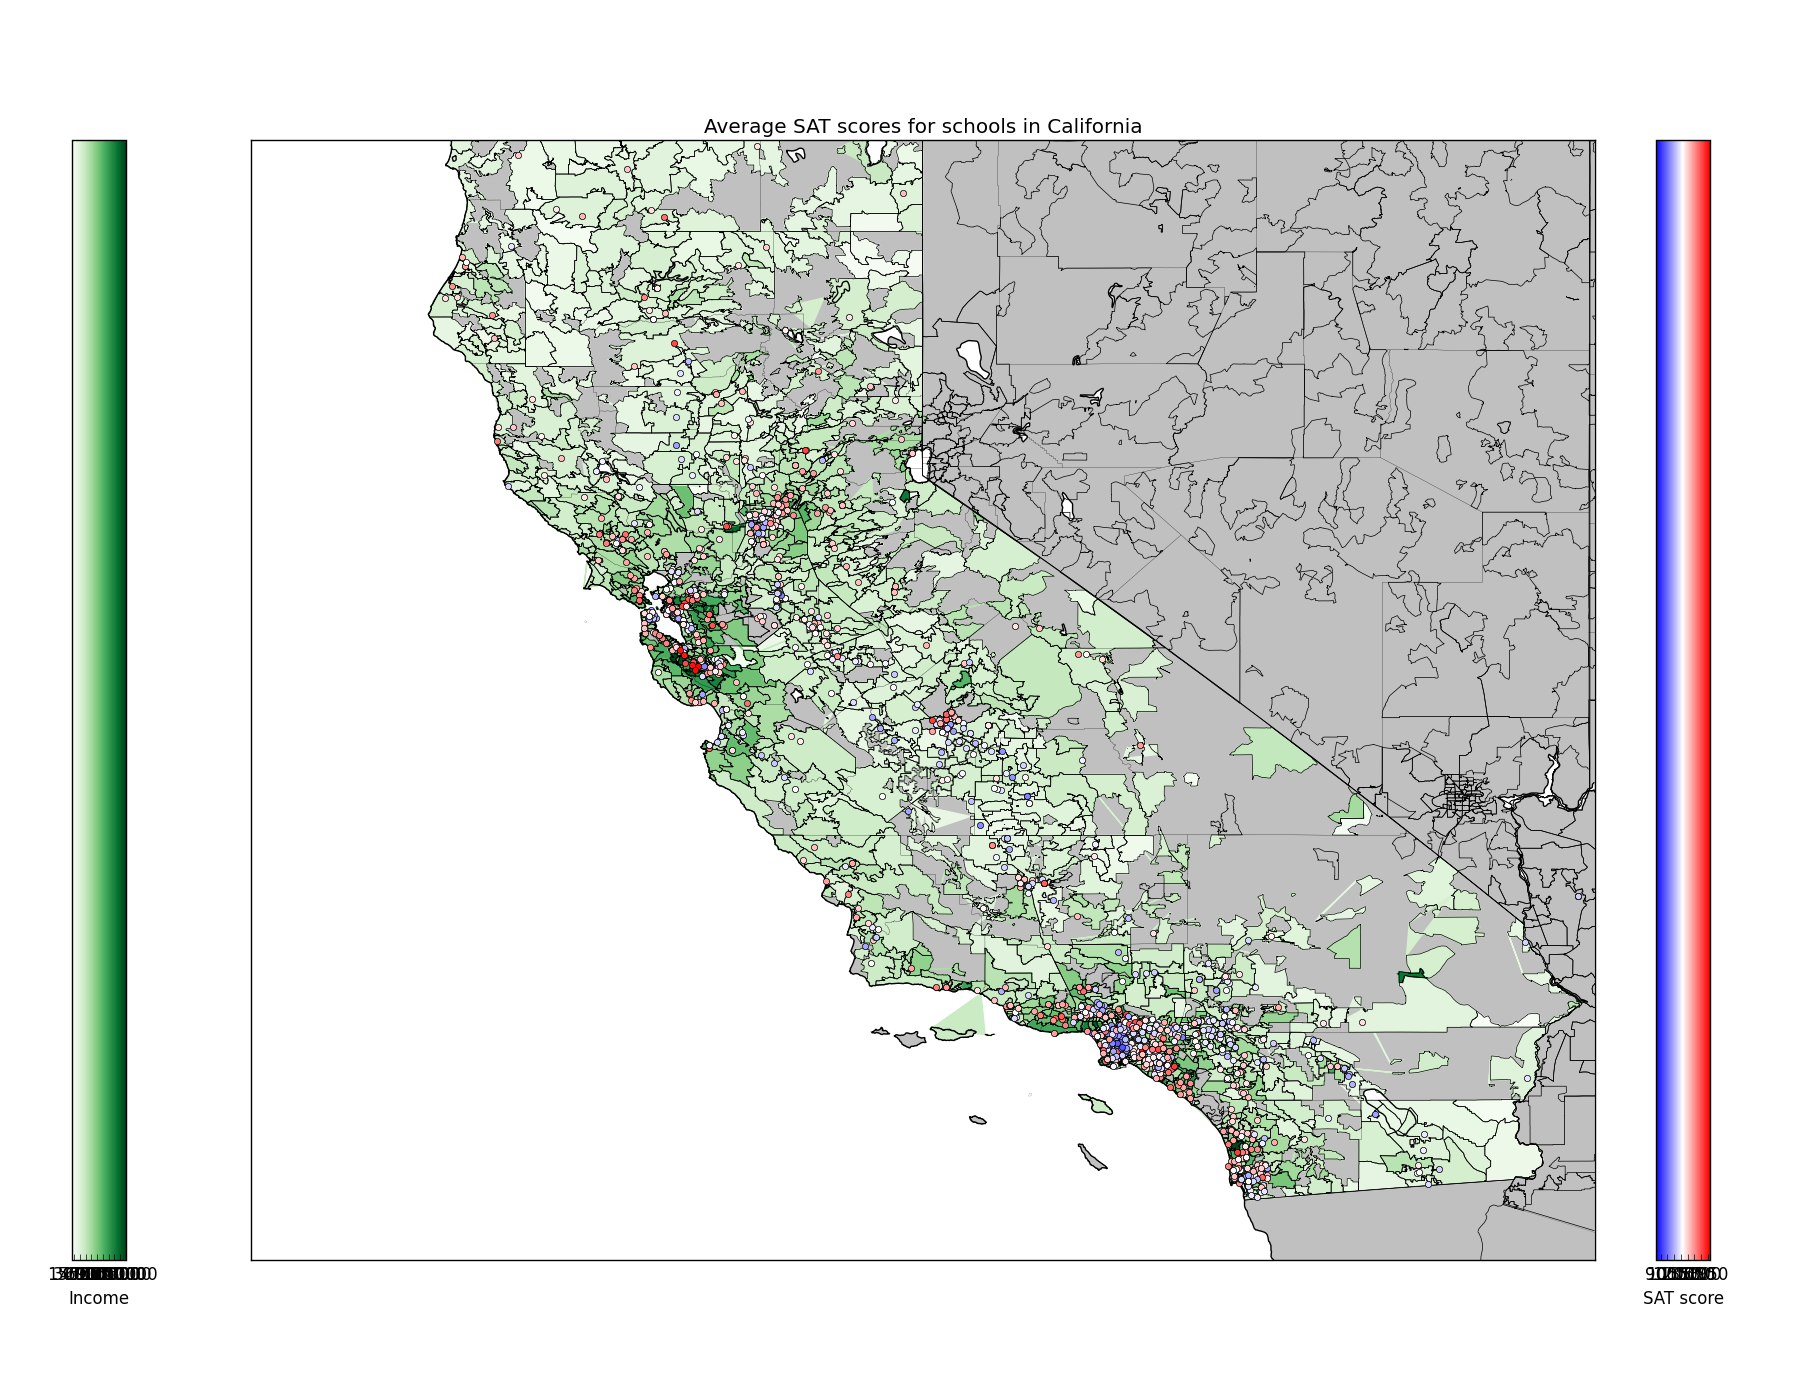
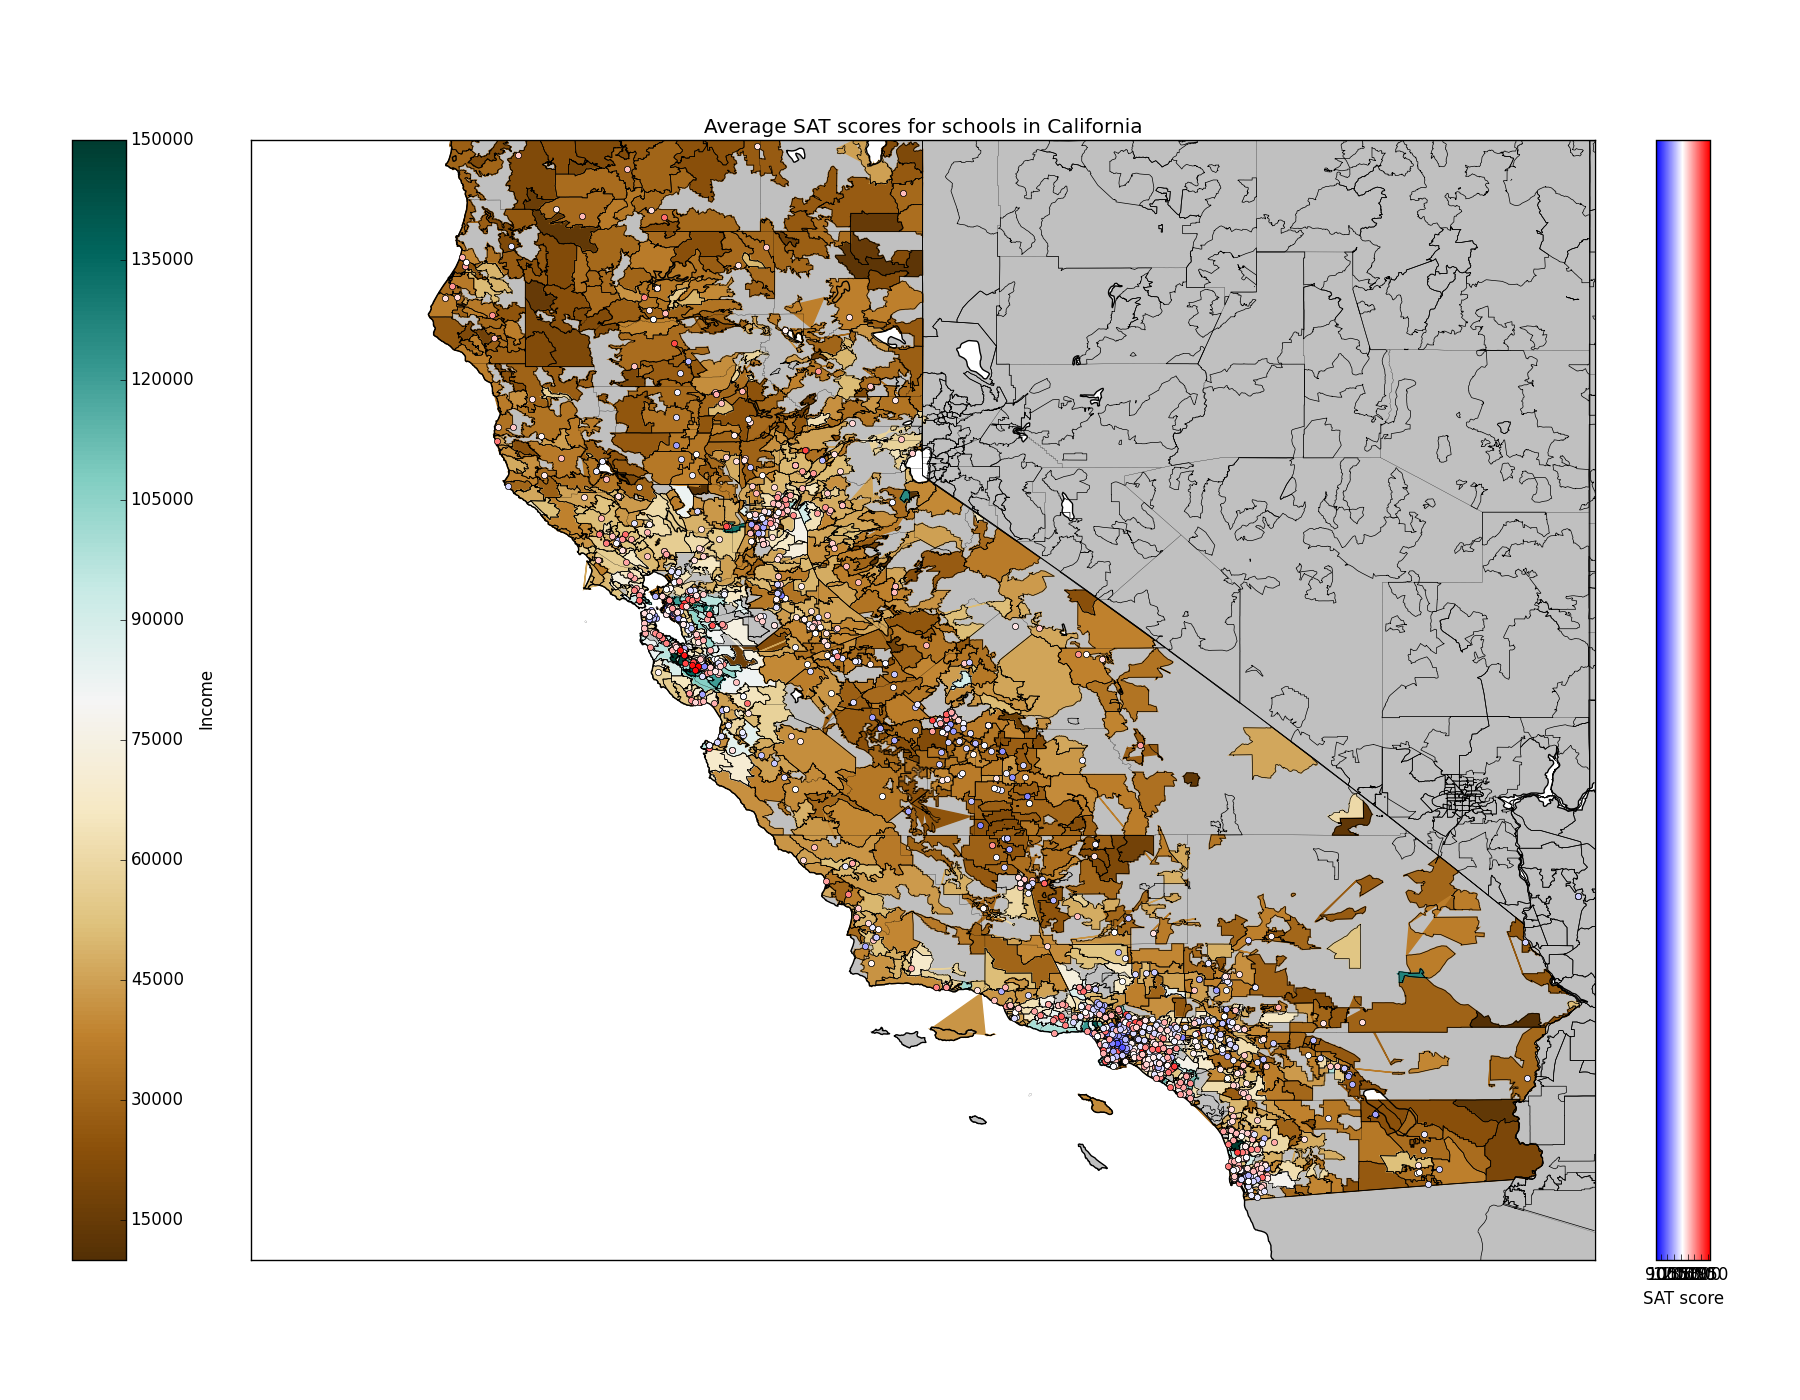
revise colormap

Changed region(s): [[0.2178, 0.0921, 0.8711, 0.86], [0.0311, 0.0921, 0.0933, 0.9214], [0.6844, 0.5221, 0.7467, 0.5529]]

diff --git a/Schools_SAT.py b/Schools_SAT.py
@@ -51,7 +51,7 @@ def draw_zip_income(m,fig,zip_data):
     ax = plt.gca()
     #Make colormap, with low of 10000 and max of 200000
     norm = mpl.colors.Normalize(vmin=10000, vmax=150000)
-    cmap = cm.Greens #Different colormap than the schools' red/blue colormap
+    cmap = cm.BrBG #Different colormap than the schools' red/blue colormap
     myColorMap = cm.ScalarMappable(norm=norm, cmap=cmap)
 
     for rec in shape_recs:
@@ -65,7 +65,7 @@ def draw_zip_income(m,fig,zip_data):
             ax.add_patch(patch)
     #Add Colormap
     ax2 = fig.add_axes([0.04, 0.1, 0.03, 0.8])
-    mpl.colorbar.ColorbarBase(ax2,cmap=cmap, norm=norm, label='Income', orientation='horizontal')
+    mpl.colorbar.ColorbarBase(ax2,cmap=cmap, norm=norm, label='Income')
     return m,fig
 
 #Draw map of California with school/SAT data
@@ -131,7 +131,7 @@ def draw_LA(school_data, zip_data):
     draw_zip_income(m,fig,zip_data)
     #COLORBAR
     ax2 = fig.add_axes([0.92, 0.1, 0.03, 0.8])
-    mpl.colorbar.ColorbarBase(ax2,cmap=cmap, norm=norm, label='SAT score', orientation='horizontal')
+    mpl.colorbar.ColorbarBase(ax2,cmap=cmap, norm=norm, label='SAT score')
 
     plt.savefig('LA_schools_SAT')
     print "LA Map Finished"
@@ -171,7 +171,7 @@ def draw_SF(school_data, zip_data):
     draw_zip_income(m,fig,zip_data)
     #COLORBAR
     ax2 = fig.add_axes([0.92, 0.1, 0.03, 0.8])
-    mpl.colorbar.ColorbarBase(ax2,cmap=cmap, norm=norm, label='SAT score', orientation='horizontal')
+    mpl.colorbar.ColorbarBase(ax2,cmap=cmap, norm=norm, label='SAT score')
 
     plt.savefig('SF_schools_SAT')
     print "SF Map Finished"
